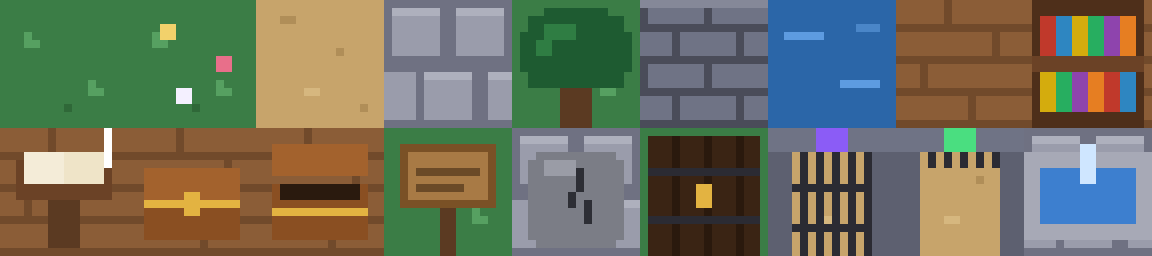
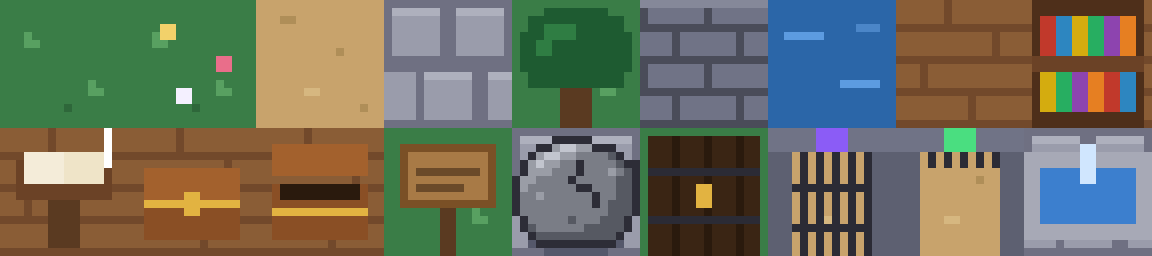
feat(game): draw breakable rocks as boulders that shatter
The cracked rock tile is now a shaded boulder, and breaking it with the
steel sword sends spinning chunks flying with a small camera shake
instead of the rock vanishing.

Changed region(s): [[0.4375, 0.5312, 0.5625, 1.0]]

diff --git a/app/src/game/scene.ts b/app/src/game/scene.ts
@@ -444,6 +444,7 @@ export class KingdomScene extends Phaser.Scene {
     }
 
     this.setTile(target, TILE.cobble)
+    this.shatterRock(target)
     quest.progress({ brokenRocks: [...quest.get().progress.brokenRocks, keyOf(target)] })
     quest.toast('The steel sword splits the rock.', 'info')
   }
@@ -471,6 +472,36 @@ export class KingdomScene extends Phaser.Scene {
       duration: 300,
       onComplete: () => item.destroy(),
     })
+  }
+
+  /** Bursts a broken rock into a handful of chunks that arc outward, tumble and fade. */
+  private shatterRock(at: Point) {
+    const colors = [0x9a9ca6, 0x7b7d86, 0x565862, 0xc3c5cd, 0x7b7d86]
+    const pieces = 5
+
+    this.cameras.main.shake(90, 0.002)
+
+    for (let i = 0; i < pieces; i++) {
+      const angle = -Math.PI / 2 + (i - (pieces - 1) / 2) * 0.75 + Phaser.Math.FloatBetween(-0.2, 0.2)
+      const size = Phaser.Math.Between(3, 5)
+      const x = center(at.x) + Phaser.Math.Between(-3, 3)
+      const y = center(at.y) + Phaser.Math.Between(-2, 2)
+      const color = colors[i % colors.length] ?? 0x7b7d86
+      const chunk = this.add.rectangle(x, y, size, size, color).setStrokeStyle(1, 0x2d2e35).setDepth(11)
+      const dx = Math.cos(angle) * Phaser.Math.Between(10, 16)
+      // y(t) = (1 + a)t² − at: pops up, then gravity pulls it 6px below where it started.
+      const lift = Phaser.Math.FloatBetween(3, 6)
+
+      this.tweens.add({
+        targets: chunk,
+        x: { value: x + dx, ease: 'Quad.easeOut' },
+        y: { value: y + 6, ease: (t: number) => (1 + lift) * t * t - lift * t },
+        angle: Phaser.Math.Between(-200, 200),
+        alpha: { value: 0, ease: 'Quad.easeIn' },
+        duration: Phaser.Math.Between(350, 450),
+        onComplete: () => chunk.destroy(),
+      })
+    }
   }
 
   private rockHint() {
